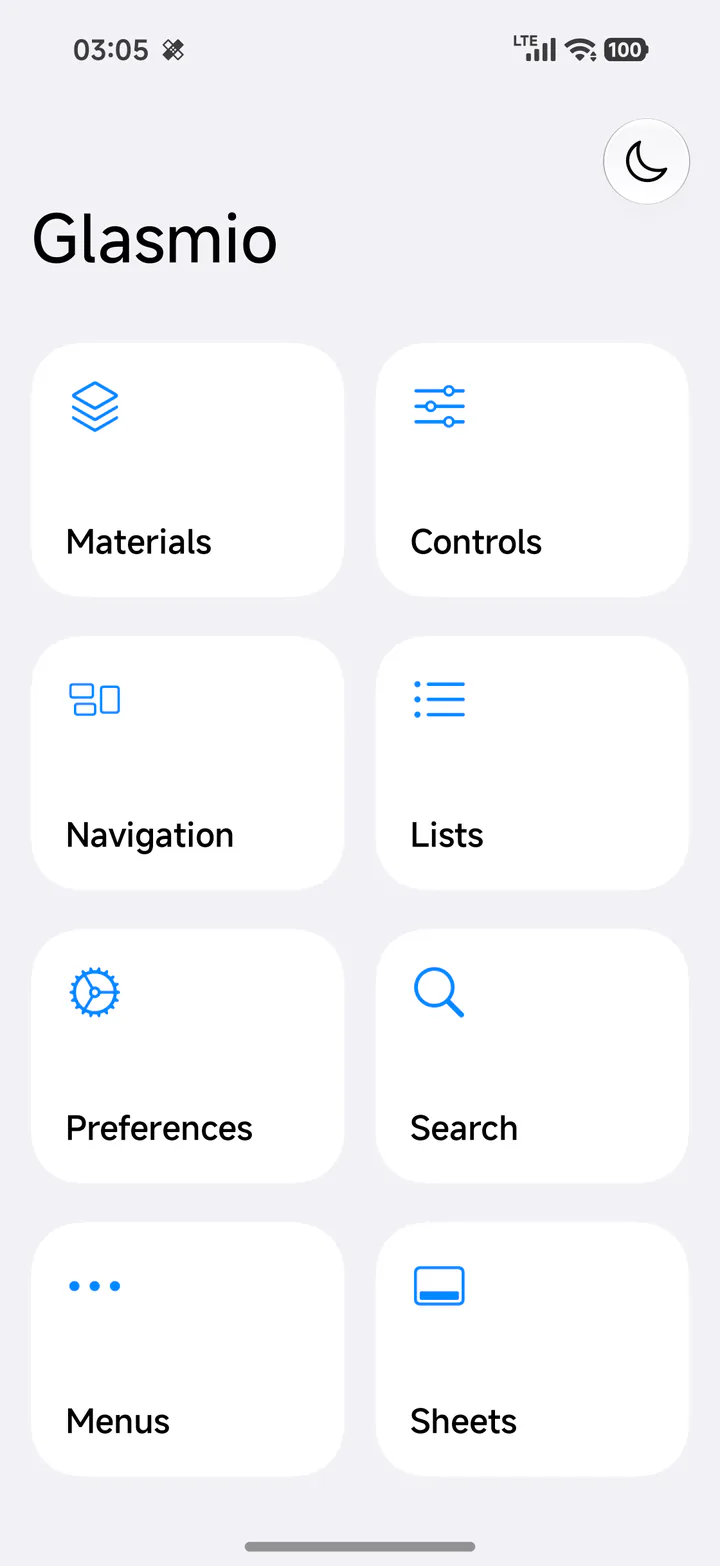
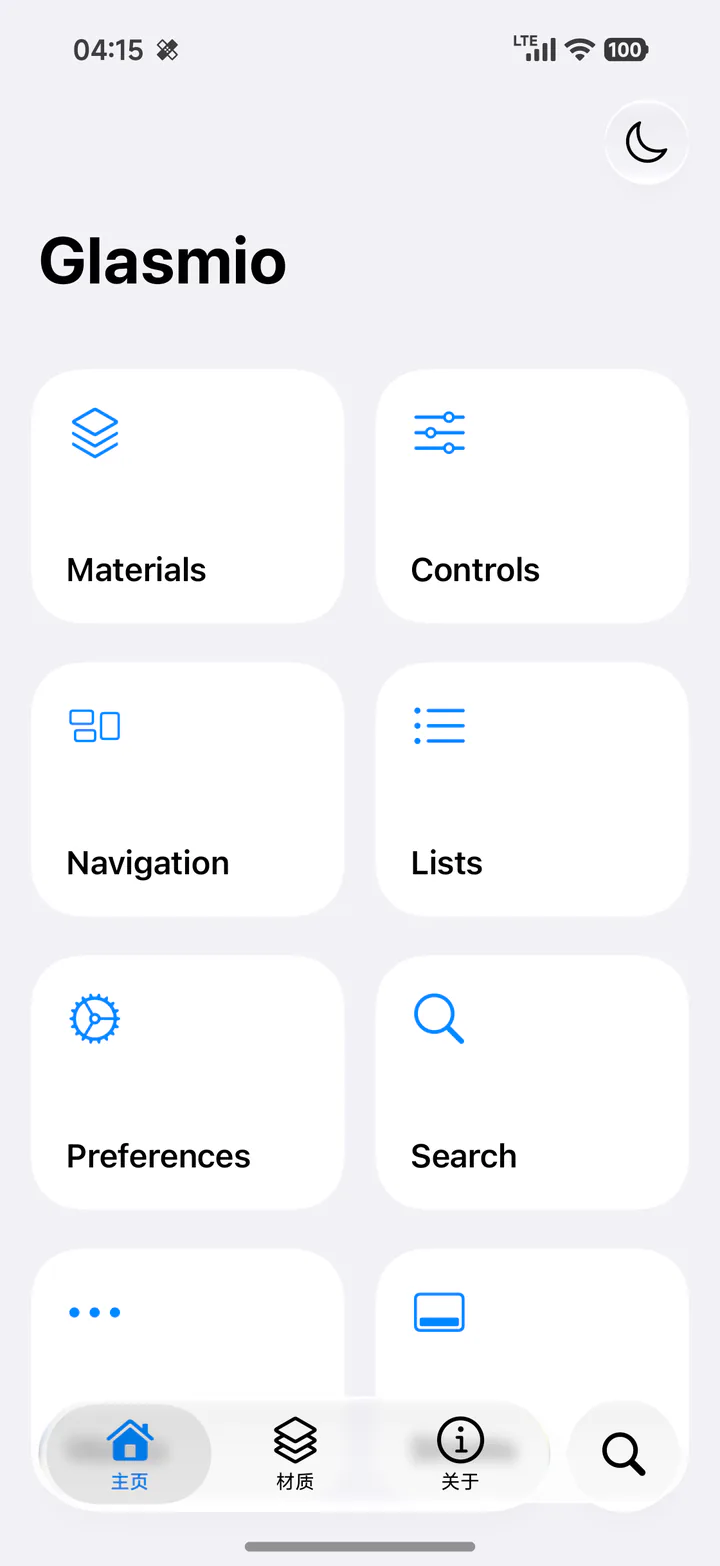
Keep material action labels readable at compact widths

diff --git a/sample/src/main/java/io/github/neoruaa/glasmio/sample/MainActivity.kt b/sample/src/main/java/io/github/neoruaa/glasmio/sample/MainActivity.kt
@@ -567,9 +567,9 @@ private fun MaterialsDemo(layout: SamplePageLayout) {
             }
         }
         item {
-            Row(horizontalArrangement = Arrangement.spacedBy(12.dp)) {
-                GlasmioButton(onClick = {}, modifier = Modifier.weight(1f), size = GlasmioButtonSize.Large) { Text("Glass") }
-                GlasmioButton(onClick = {}, modifier = Modifier.weight(1f), emphasis = GlassEmphasis.Prominent, size = GlasmioButtonSize.Large) { Text("Glass Prominent") }
+            Column(verticalArrangement = Arrangement.spacedBy(12.dp)) {
+                GlasmioButton(onClick = {}, modifier = Modifier.fillMaxWidth(), size = GlasmioButtonSize.Large) { Text("Glass") }
+                GlasmioButton(onClick = {}, modifier = Modifier.fillMaxWidth(), emphasis = GlassEmphasis.Prominent, size = GlasmioButtonSize.Large) { Text("Glass Prominent") }
             }
         }
         item {
